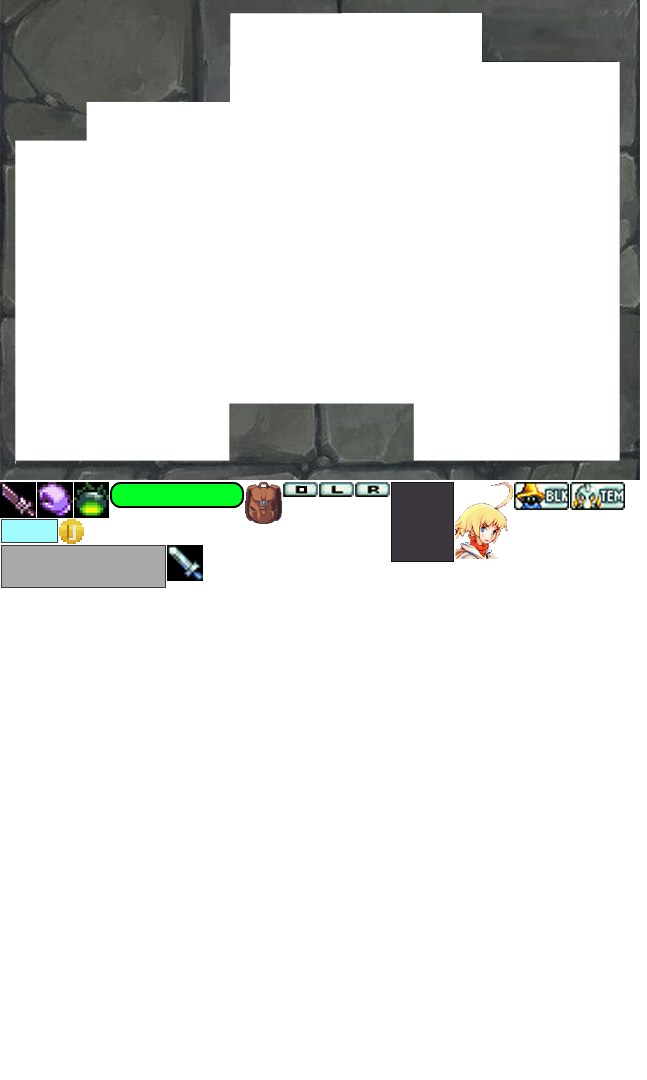
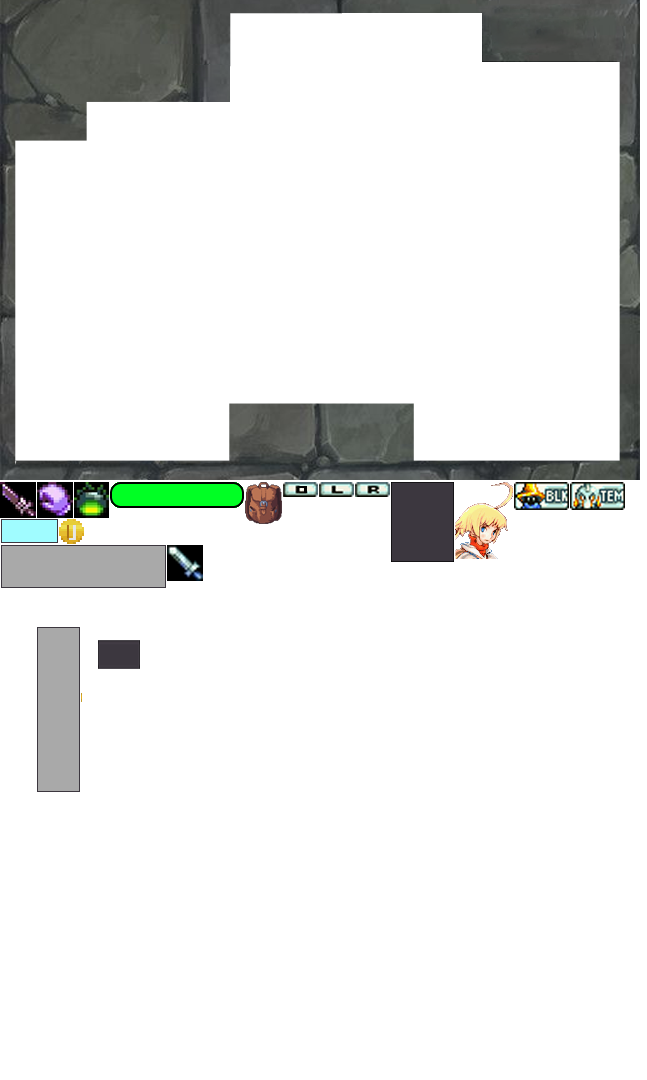
Add Bar D¡and stuff commented

Changed region(s): [[0.0309, 0.5806, 0.1236, 0.7333], [0.1546, 0.5806, 0.2164, 0.6417]]

diff --git a/Motor2D/j1Scene.cpp b/Motor2D/j1Scene.cpp
@@ -146,7 +146,22 @@ void j1Scene::LoadUiElement(pugi::xml_node node)
 
 	}
 	
-	
+	// bars 
+	for (pugi::xml_node uiNode = node.child("bars").child("bar"); uiNode; uiNode = uiNode.next_sibling("bar"))
+	{
+		/*iPoint position = { uiNode.child("position").attribute("x").as_int(), uiNode.child("position").attribute("y").as_int() };
+		SDL_Rect section = { uiNode.child("section").attribute("x").as_int(), uiNode.child("section").attribute("y").as_int(), uiNode.child("section").attribute("w").as_int(), uiNode.child("section").attribute("h").as_int() };
+		
+		
+		// TODO: spawn thumg according to bar type: vertical or horizontal 
+		//std::string type = uiNode.child("type").attribute("value").as_string();
+
+		App->gui->AddBar(position, &section, nullptr, VERTICAL); // TODO: add parent later */
+
+	}
+
+
+
 }
 
 bool j1Scene::LoadStartMenu(pugi::xml_node & nodeScene)

diff --git a/Motor2D/j1Gui.h b/Motor2D/j1Gui.h
@@ -7,8 +7,8 @@
 #include "UiItem.h"
 #include "UiItem_Image.h"
 #include "UiItem_Label.h"
-/*#include "UiItem_Button.h"
-#include "UiItem_Bar.h"*/
+/*#include "UiItem_Button.h"*/
+#include "UiItem_Bar.h"
 
 class j1Gui : public j1Module
 {
@@ -28,6 +28,8 @@ public:
 	UiItem* canvas = nullptr;
 	UiItem_Label* AddLabel(std::string text, SDL_Color color, TTF_Font * font, p2Point<int> position);
 	UiItem_Image* AddImage(iPoint position, const SDL_Rect* section);
+	UiItem_Bar* AddBar(iPoint position, const SDL_Rect* section, UiItem*const parent, TypeBar type = VERTICAL);
+
 	SDL_Texture* GetAtlas();
 
 private:

diff --git a/Motor2D/UiItem_Bar.cpp b/Motor2D/UiItem_Bar.cpp
@@ -10,12 +10,17 @@
 
 
 
-UiItem_Bar::UiItem_Bar(p2Point<int> position, uint mesure, const SDL_Rect * section, UiItem * const parent, p2Point<int> pivot, TypeBar type):UiItem(position)
+UiItem_Bar::UiItem_Bar(iPoint position, const SDL_Rect * section, UiItem * const parent, TypeBar type):UiItem(position)
 {
+
+	//App->gui->AddImage(position, &section);
+
+
 }
 
 void UiItem_Bar::Draw(const float & dt)
 {
+	//App->render->Blit(App->gui->GetAtlas(), hitBox.x, hitBox.y, &this->section, 0.0F, SDL_FLIP_NONE);
 }
 
 float UiItem_Bar::GetBarValue()

diff --git a/Motor2D/UiItem_Bar.h b/Motor2D/UiItem_Bar.h
@@ -18,11 +18,18 @@ class UiItem_Bar :public UiItem
 {
 protected:
 	TypeBar type = HORIZONTAL;
+	UiItem_Image* thumb = nullptr;
+	UiItem_Image* bar = nullptr;
+	SDL_Rect section;
+
 public:
-	UiItem_Bar(p2Point<int> position, uint mesure, const SDL_Rect* section, UiItem*const parent, p2Point<int> pivot = { 0,0 }, TypeBar type = HORIZONTAL);
+	UiItem_Bar(iPoint position, const SDL_Rect* section, UiItem*const parent, TypeBar type = VERTICAL);
 	~UiItem_Bar() {}
 	void Draw(const float& dt);
 	float GetBarValue();
+
+
+
 };
 
 

diff --git a/Motor2D/j1Gui.cpp b/Motor2D/j1Gui.cpp
@@ -71,7 +71,21 @@ UiItem_Image * j1Gui::AddImage(iPoint position, const SDL_Rect* section)
 	return (UiItem_Image*)newUIItem;
 }
 
+UiItem_Bar * j1Gui::AddBar(iPoint position, const SDL_Rect* section, UiItem*const parent, TypeBar type)
+{
+	UiItem* newUIItem = nullptr;
+
+	newUIItem = new UiItem_Bar(position, section, parent, type);
+
+	ListItemUI.push_back(newUIItem);
+
+	return (UiItem_Bar*)newUIItem;
+
+}
+
 SDL_Texture * j1Gui::GetAtlas()
 {
 	return atlas;
 }
+
+
